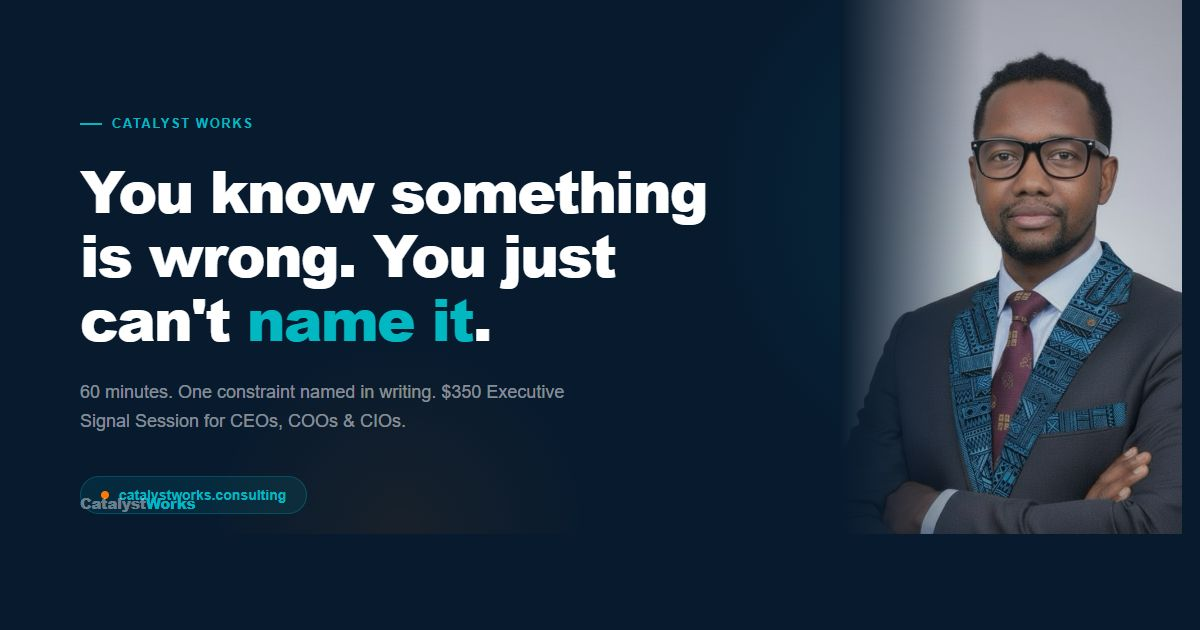
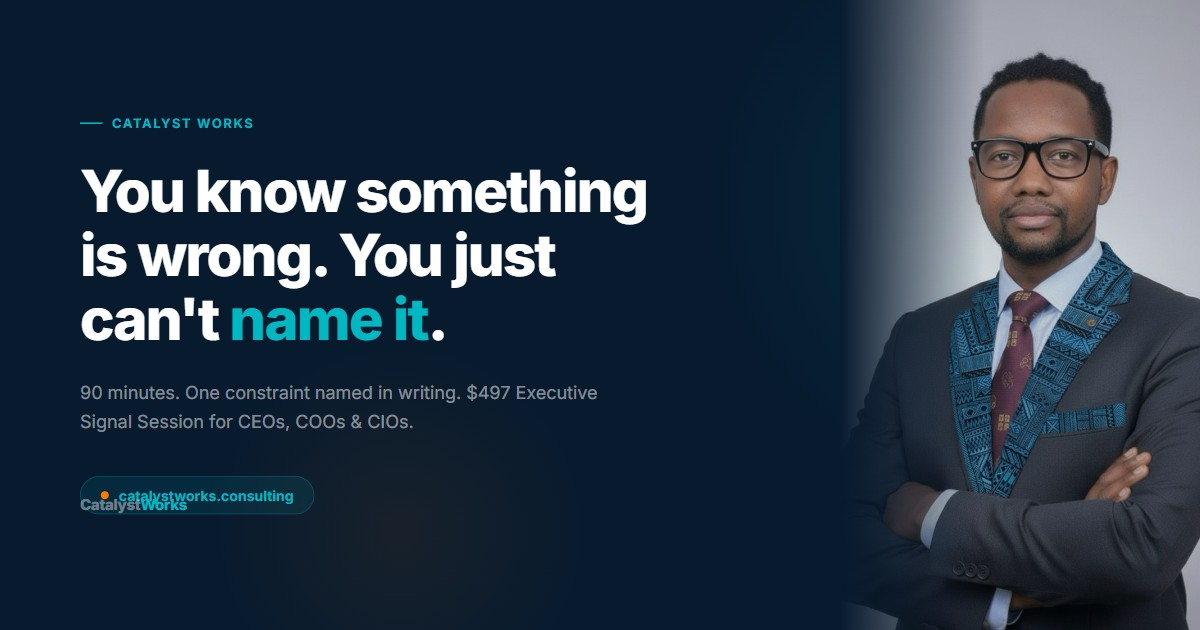
fix(price-audit): scrub stale price + broken Calendly handle
Surfaced from price-consistency audit across catalystworks.consulting:

- og-image.html: '$350 / 60 minutes' was the headline copy on the
  social share image. Wrong on both axes. Replaced with '$497 /
  90 minutes' to match every other surface (meta tags, schema.org
  Offer, FAQ, hero, offer card).
- og-image.jpg: regenerated from the corrected HTML at 1200x630
  via Playwright. Old file was from 2026-04-03, pre-v3-WOW
  redesign.
- ai-data-audit.html: 5 Calendly CTAs pointed at
  calendly.com/bokar83/... — wrong handle. Boubacar's Calendly
  is calendly.com/boubacarbarry/... All five now point at the
  correct paid Signal Session: AI Data Exposure Audit URL.

Both pricing surfaces now consistently show $497.

diff --git a/ai-data-audit.html b/ai-data-audit.html
@@ -1250,7 +1250,7 @@
       </div>
       <div class="nav-slots">
         <span class="nav-slot-count"><strong>4 slots</strong> remaining in May</span>
-        <a href="https://calendly.com/bokar83/signal-session-ai-data-exposure-audit" target="_blank" class="btn-ghost-red" onclick="gtag('event','cta_click',{location:'nav'})">Reserve a Slot</a>
+        <a href="https://calendly.com/boubacarbarry/signal-session-ai-data-exposure-audit" target="_blank" class="btn-ghost-red" onclick="gtag('event','cta_click',{location:'nav'})">Reserve a Slot</a>
       </div>
     </div>
   </nav>
@@ -1268,7 +1268,7 @@
         </h1>
         <p class="hero-sub">Find out exactly which AI tools can access your client data, what they are sending out, and what to fix first. A 90-minute structured diagnostic. Written posture summary in 24 hours.</p>
         <div class="hero-cta-row">
-          <a href="https://calendly.com/bokar83/signal-session-ai-data-exposure-audit" target="_blank" class="btn-red btn-red-lg" onclick="gtag('event','cta_click',{location:'hero'})">Reserve My Diagnostic</a>
+          <a href="https://calendly.com/boubacarbarry/signal-session-ai-data-exposure-audit" target="_blank" class="btn-red btn-red-lg" onclick="gtag('event','cta_click',{location:'hero'})">Reserve My Diagnostic</a>
         </div>
         <p class="hero-scarcity"><strong>4 slots remaining</strong> in May &mdash; 8 sessions per month, one practitioner</p>
         <div class="data-strip" aria-label="Session at a glance">
@@ -1443,7 +1443,7 @@
       </div>
 
       <div class="price-cta-wrap">
-        <a href="https://calendly.com/bokar83/signal-session-ai-data-exposure-audit" target="_blank" class="btn-red btn-red-lg" onclick="gtag('event','cta_click',{location:'price'})">Reserve My Diagnostic</a>
+        <a href="https://calendly.com/boubacarbarry/signal-session-ai-data-exposure-audit" target="_blank" class="btn-red btn-red-lg" onclick="gtag('event','cta_click',{location:'price'})">Reserve My Diagnostic</a>
         <p class="price-refund">If the session surfaces nothing you don't already know, I refund the fee. No paperwork. No questions.</p>
       </div>
     </div>
@@ -1521,7 +1521,7 @@
   <section class="final-cta" aria-labelledby="final-h2">
     <h2 id="final-h2">Find out what your firm's AI tools can reach.</h2>
     <p>90 minutes. Written summary in 24 hours. $497 flat.</p>
-    <a href="https://calendly.com/bokar83/signal-session-ai-data-exposure-audit" target="_blank" class="btn-white" onclick="gtag('event','cta_click',{location:'final'})">Reserve My Diagnostic</a>
+    <a href="https://calendly.com/boubacarbarry/signal-session-ai-data-exposure-audit" target="_blank" class="btn-white" onclick="gtag('event','cta_click',{location:'final'})">Reserve My Diagnostic</a>
     <p class="final-scarcity"><strong>4 slots remaining</strong> in May &mdash; 8 per month, one practitioner</p>
   </section>
 

diff --git a/og-image.html b/og-image.html
@@ -157,7 +157,7 @@
   <div class="content">
     <div class="eyebrow">Catalyst Works</div>
     <h1>You know something<br>is wrong. You just<br>can't <em>name it</em>.</h1>
-    <p class="sub">60 minutes. One constraint named in writing. $350 Executive Signal Session for CEOs, COOs &amp; CIOs.</p>
+    <p class="sub">90 minutes. One constraint named in writing. $497 Executive Signal Session for CEOs, COOs &amp; CIOs.</p>
     <div class="pill">
       <div class="dot"></div>
       catalystworks.consulting
